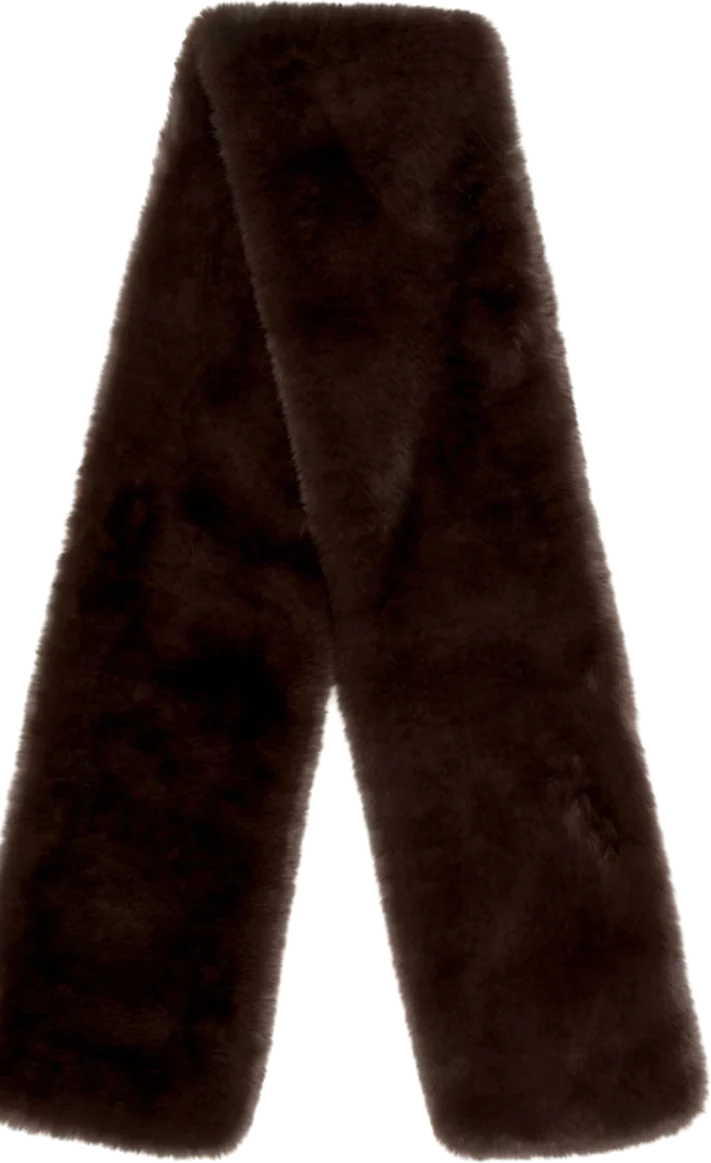
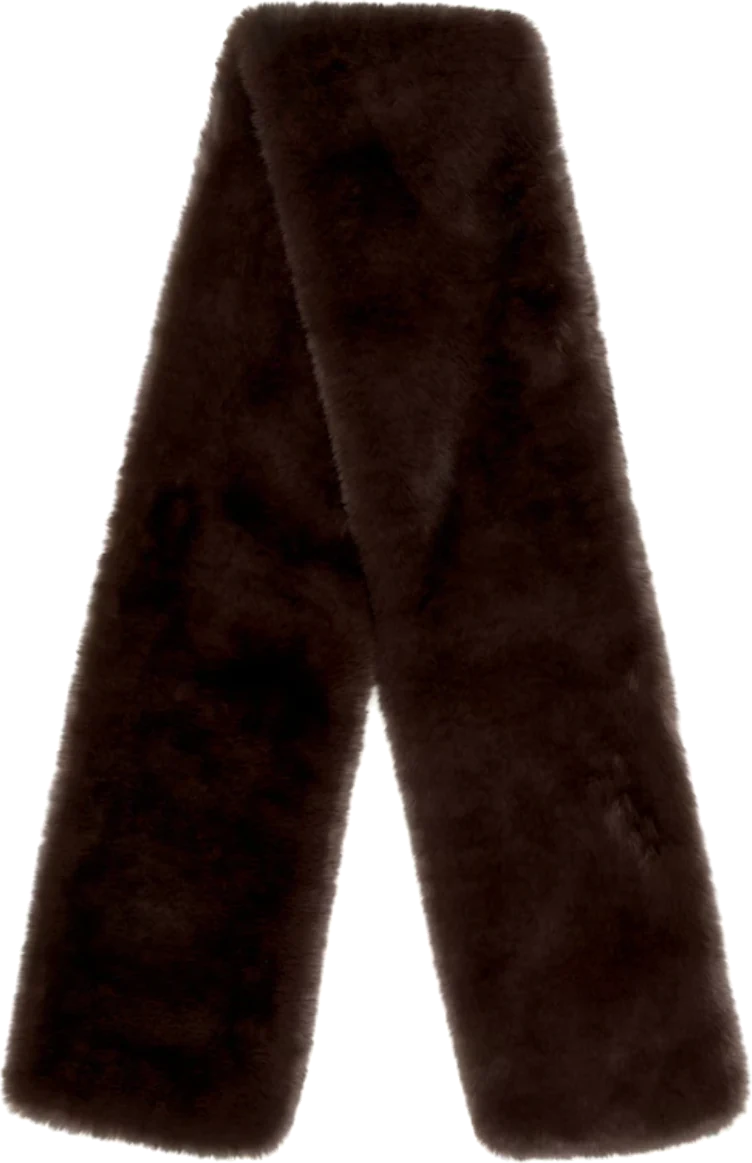
Brown stole no longer cropped

diff --git a/index.html b/index.html
@@ -316,7 +316,7 @@ const OCC=[
  {"title":"Coffee Run","n":4,"copy":"Flannel, red sweatpants and suede flats. Coffee run, still put together.","ar":1.0867,"pieces":[["c04-pants",39.94,25.23,27.49],["c04-shirt",6.12,1.6,31.62],["p04-tote",0.0,57.22,30.98],["c04-flats",70.64,85.95,28.45]],"items":[["c04-shirt","Róhe","Checked cotton flannel shirt","https://go.shopmy.us/p-100359980","Tops"],["c04-pants","Éterne","Oversized wide-leg sweatpant","","Bottoms"],["p04-tote","","Navy canvas tote","","Bags"],["c04-flats","The Row","Stella suede ballet flats","https://go.shopmy.us/p-100461025","Shoes"]]}]},
 {"id":"winter-wedding","name":"Winter Wedding","looks":[
  {"title":"The Guest","n":5,"copy":"Liquid teal satin under a cream fur. The guest everyone asks about.","ar":0.8386,"pieces":[["p05-dress",38.97,0.0,40.93],["c05-fur",1.16,4.86,36.4],["c05-sandals",64.26,76.37,28.83],["c05-clutch",7.62,53.94,31.45],["c05-earrings",80.98,7.35,18.43]],"items":[["p05-dress","","Teal satin cowl-neck gown","","Dresses"],["c05-fur","Ducie","Rochelle shearling jacket","https://go.shopmy.us/p-101064048","Outerwear"],["c05-clutch","Topshop","Ember satin envelope clutch","https://go.shopmy.us/p-100259840","Bags"],["c05-earrings","Julietta","Palais earrings","https://go.shopmy.us/p-100357046","Accessories"],["c05-sandals","Aquazzura","Nuda mirrored sandals","https://go.shopmy.us/p-100262289","Shoes"]]},
- {"title":"Black Tie, Mountains","n":6,"copy":"Olive silk, a brown stole and diamonds. Black tie in the mountains.","ar":0.7902,"pieces":[["p06-dress",33.9,5.36,29.94],["c06-stole",66.46,2.19,31.49],["c05-sandals",70.95,78.36,28.01],["p06-clutch",0.0,49.55,34.04],["c06-earrings",4.01,0.47,18.11]],"items":[["p06-dress","","Olive embellished satin gown","","Dresses"],["c06-stole","Mimchik","Faux fur shawl","https://go.shopmy.us/p-101058125","Accessories"],["c06-earrings","Real Fine Studio","Georgian double drops","https://go.shopmy.us/p-100354880","Accessories"],["p06-clutch","","Silver shagreen clutch","","Bags"],["c05-sandals","Aquazzura","Nuda mirrored sandals","https://go.shopmy.us/p-100262289","Shoes"]]}]},
+ {"title":"Black Tie, Mountains","n":6,"copy":"Olive silk, a brown stole and diamonds. Black tie in the mountains.","ar":0.7902,"pieces":[["p06-dress",33.9,5.36,29.94],["c06-stole",65.55,2.19,33.31],["c05-sandals",70.95,78.36,28.01],["p06-clutch",0.0,49.55,34.04],["c06-earrings",4.01,0.47,18.11]],"items":[["p06-dress","","Olive embellished satin gown","","Dresses"],["c06-stole","Mimchik","Faux fur shawl","https://go.shopmy.us/p-101058125","Accessories"],["c06-earrings","Real Fine Studio","Georgian double drops","https://go.shopmy.us/p-100354880","Accessories"],["p06-clutch","","Silver shagreen clutch","","Bags"],["c05-sandals","Aquazzura","Nuda mirrored sandals","https://go.shopmy.us/p-100262289","Shoes"]]}]},
 {"id":"nye","name":"NYE","looks":[
  {"title":"Leopard at Midnight","n":7,"copy":"Leopard over a satin bubble dress. Midnight, with attitude.","ar":0.8745,"pieces":[["c07-coat",4.0,4.0,39.31],["p07-dress",40.45,22.82,53.81],["p07-sandals",72.91,79.91,27.09],["c07-clutch",1.24,89.45,38.96],["c06-earrings",78.52,0.47,16.24]],"items":[["c07-coat","Toteme","Long pony hair coat","https://go.shopmy.us/p-100137811","Outerwear"],["p07-dress","","Champagne satin bubble minidress","","Dresses"],["c06-earrings","Real Fine Studio","Georgian double drops","https://go.shopmy.us/p-100354880","Accessories"],["c07-clutch","Khaite","Donna leather clutch","https://go.shopmy.us/p-100275795","Bags"],["p07-sandals","","Black strappy sandals","","Shoes"]]},
  {"title":"Gold Hour","n":8,"copy":"An embroidered gold mini, a velvet coat and baroque earrings.","ar":0.8919,"pieces":[["c08-coat",64.82,2.38,34.09],["p08-dress",29.61,15.69,33.48],["c08-sandal",21.39,78.95,11.3],["p08-earrings",6.44,3.73,23.18],["c08-clutch",0.87,50.33,26.6]],"items":[["p08-dress","","Gold embroidered minidress","","Dresses"],["c08-coat","Mel Usine","Arles velvet corduroy coat","https://go.shopmy.us/p-100154884","Outerwear"],["p08-earrings","","Baroque cross earrings","","Accessories"],["c08-clutch","Topshop","Ember satin envelope clutch","https://go.shopmy.us/p-100259840","Bags"],["c08-sandal","Amina Muaddi","Lori lace-up sandals","https://go.shopmy.us/p-100347454","Shoes"]]},
